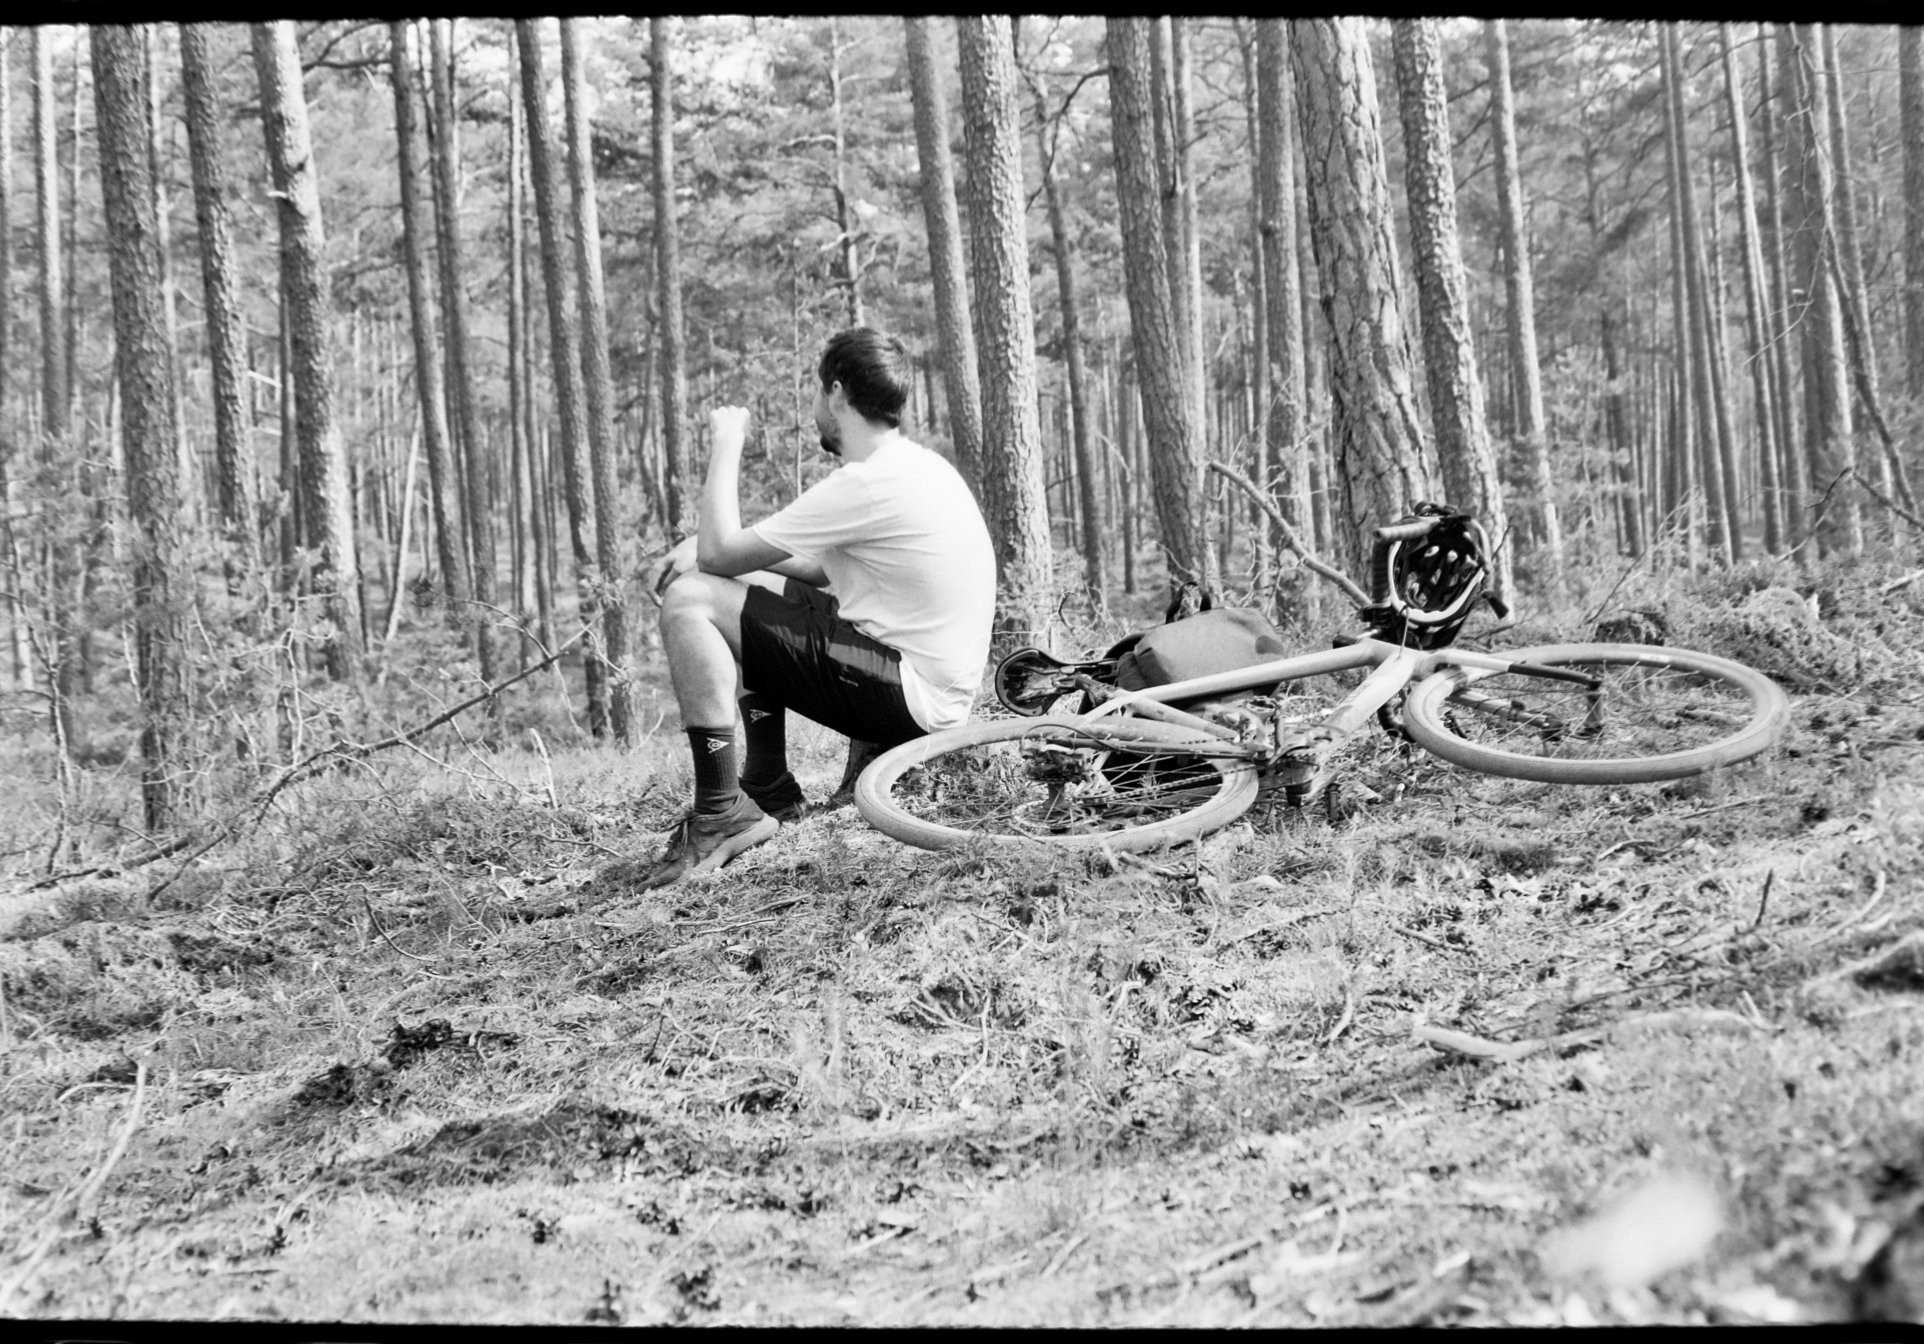
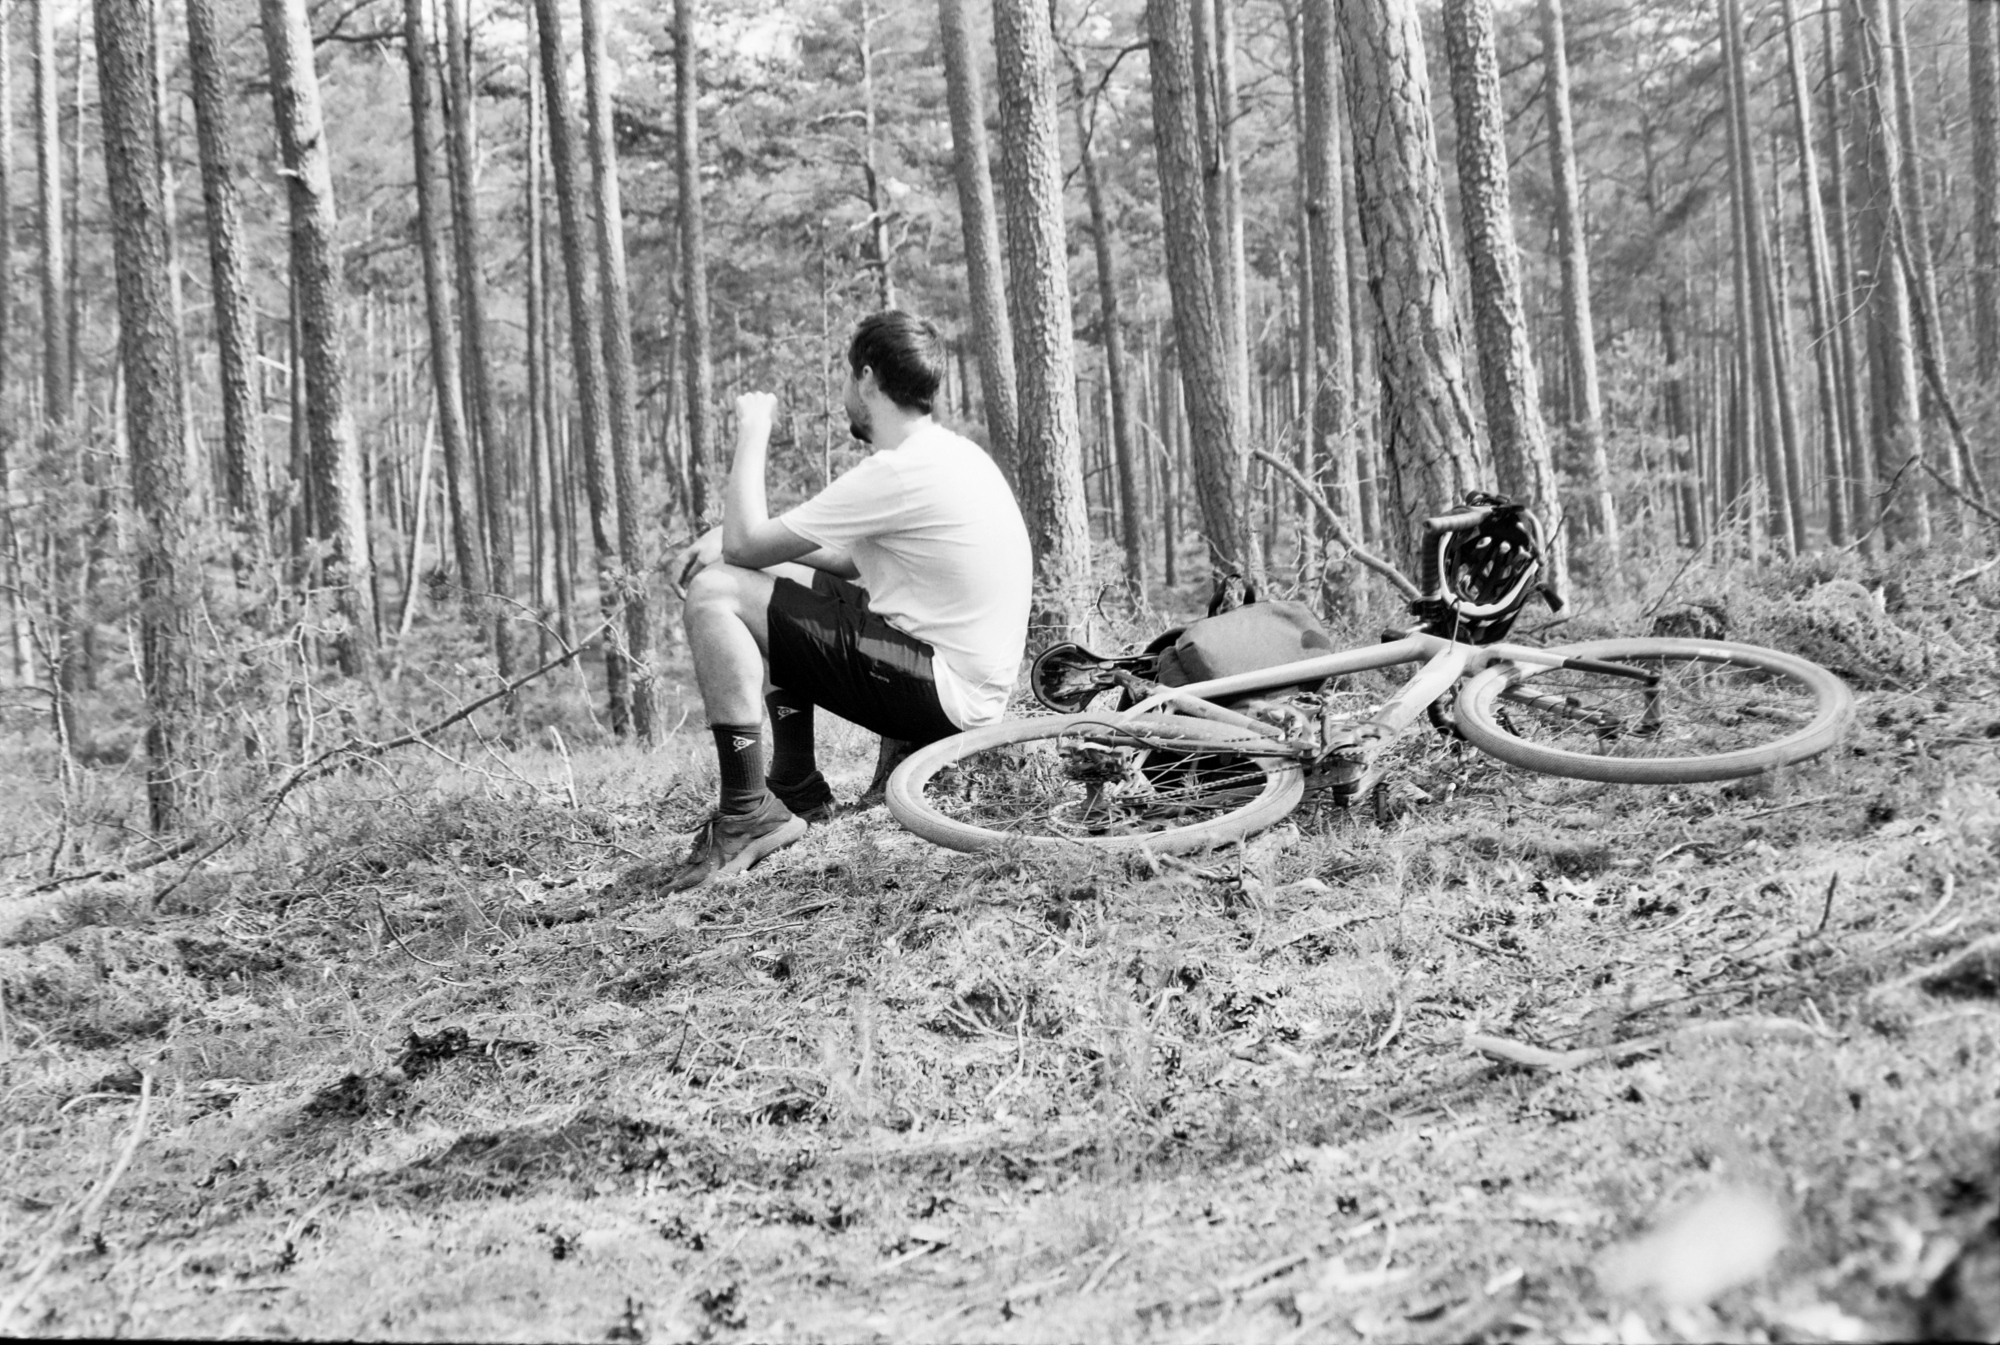
Added vignette to main

diff --git a/main.css b/main.css
@@ -1,6 +1,7 @@
 body {
     font-family: "Quicksand", sans-serif;
     color: #333333;
+    overflow: hidden;
 }
 
 .noselect {
@@ -144,7 +145,7 @@ h1.heading:after {
     z-index: 1;
     position: absolute;
     left: 0;
-    bottom: 5rem;
+    bottom: 3rem;
     background-color: rgba(0, 0, 0, 0.8);
 
     border: 3px solid rgba(0, 0, 0, 0.2);
@@ -206,6 +207,16 @@ body.main {
     background-attachment: fixed;
     background-size: cover;  
     background-position: center;
+    overflow: auto;
+    position: relative;
+}
+
+body.main:after {
+    content: '';
+    position: absolute;
+    top: 0; left: 0; bottom: 0; right: 0;
+    background: radial-gradient(circle, transparent 30%, rgb(104, 104, 104) 250%);
+    box-shadow: inset -1rem 0 10rem rgb(88, 88, 88);
 }
 
 .heading {
@@ -240,4 +251,14 @@ body.main {
 
 .content > p {
     text-align: justify;
+}
+
+#bottom-bar {
+    position: fixed;
+    z-index: 100; 
+    bottom: 0; 
+    left: 0;
+    width: 100%;
+    min-height: 0.3rem;
+    background-color: rgb(129, 173, 255);
 }

diff --git a/index.html b/index.html
@@ -44,6 +44,8 @@
             </button>
         </a>
     </div>
+
+    <div id="bottom-bar"></div>
  
     <!-- Scripts -->
     <script src="./scripts/index.js"></script>
